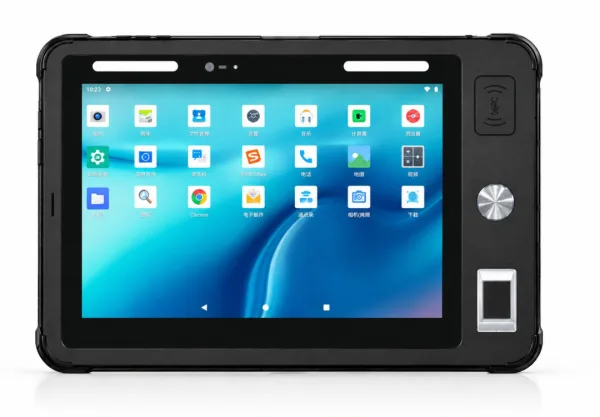
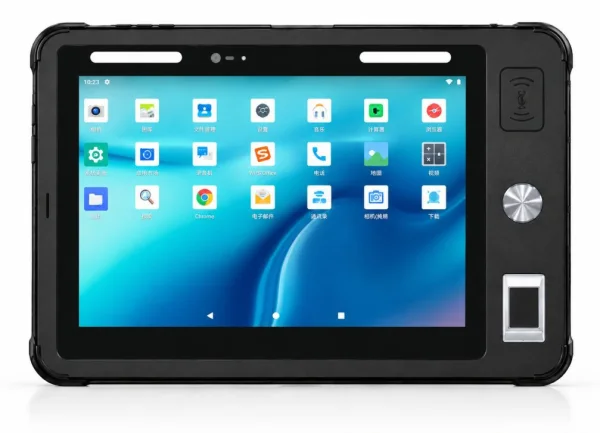
Auto-trim product photos to content bounds (PDA -72% area), raise hero max-height for portrait images

diff --git a/products/8-inch-rugged-tablet/index.html b/products/8-inch-rugged-tablet/index.html
@@ -1,6 +1,6 @@
 <!doctype html>
 <html lang="en"><head><meta charset="utf-8"><meta name="viewport" content="width=device-width, initial-scale=1">
-<link rel="icon" href="/favicon.ico" sizes="32x32"><link rel="icon" href="/favicon.svg" type="image/svg+xml"><link rel="apple-touch-icon" href="/apple-touch-icon.png"><link rel="stylesheet" href="../../assets/style.css?v=20261001-prod">
+<link rel="icon" href="/favicon.ico" sizes="32x32"><link rel="icon" href="/favicon.svg" type="image/svg+xml"><link rel="apple-touch-icon" href="/apple-touch-icon.png"><link rel="stylesheet" href="../../assets/style.css?v=20261001-crop">
 <title>8-Inch Rugged Industrial Tablet | Android 12, 10000mAh | Xinhong Smart</title>
 <meta name="description" content="8-inch Android 12 rugged tablet for warehouse and field work. Octa-core MTK, 10000mAh battery, 1.5m drop rating, optional Zebra/Honeywell 2D scanning, fingerprint and ID card modules. OEM/ODM available.">
 <meta name="robots" content="index, follow, max-snippet:-1, max-image-preview:large">
@@ -25,7 +25,7 @@
 <nav class="desktop-nav" aria-label="Main navigation"><a href="/">Home</a><a href="/products/">Products</a><a href="/custom/">Custom Solutions</a><a href="/insights/">News</a><a href="/about/">About Us</a></nav><a class="header-contact" href="/about/#contact">Contact us <span>↗</span></a>
 <details class="mobile-menu"><summary aria-label="Open menu">☰</summary><nav><a href="/">Home</a><a href="/products/">Products</a><a href="/custom/">Custom Solutions</a><a href="/insights/">News</a><a href="/about/">About Us</a></nav></details></div></header>
 <main><div class="container detail-page">
-<section class="product-hero has-photo"><picture class="product-picture"><source type="image/webp" srcset="../../uploads/8-inch-rugged-tablet-600.webp 600w, ../../uploads/8-inch-rugged-tablet.webp 1080w" sizes="(max-width:900px) 92vw, 470px"><img src="../../uploads/8-inch-rugged-tablet.jpg" alt="8-inch rugged industrial tablet with optional 2D scanner and fingerprint sensor" width="1080" height="750" decoding="async"></picture><div><h1>8-Inch Rugged Industrial Tablet</h1>
+<section class="product-hero has-photo"><picture class="product-picture"><source type="image/webp" srcset="../../uploads/8-inch-rugged-tablet-600.webp 600w, ../../uploads/8-inch-rugged-tablet.webp 1007w" sizes="(max-width:900px) 92vw, 470px"><img src="../../uploads/8-inch-rugged-tablet.jpg" alt="8-inch rugged industrial tablet with optional 2D scanner and fingerprint sensor" width="1007" height="727" decoding="async"></picture><div><h1>8-Inch Rugged Industrial Tablet</h1>
   <p class="lead">A one-handed-balance Android tablet built for warehouses, inspection routes and vehicle mounts — with the scanning, battery and connectivity options that consumer tablets never get right.</p>
   <p><a class="cta-btn" href="/about/#contact">Request a Quote</a> <a class="cta-btn-secondary" href="/products/10-inch-rugged-tablet/">Prefer a 10-inch screen?</a></p></div></section>
 

diff --git a/products/handheld-pda/index.html b/products/handheld-pda/index.html
@@ -1,6 +1,6 @@
 <!doctype html>
 <html lang="en"><head><meta charset="utf-8"><meta name="viewport" content="width=device-width, initial-scale=1">
-<link rel="icon" href="/favicon.ico" sizes="32x32"><link rel="icon" href="/favicon.svg" type="image/svg+xml"><link rel="apple-touch-icon" href="/apple-touch-icon.png"><link rel="stylesheet" href="../../assets/style.css?v=20261001-prod">
+<link rel="icon" href="/favicon.ico" sizes="32x32"><link rel="icon" href="/favicon.svg" type="image/svg+xml"><link rel="apple-touch-icon" href="/apple-touch-icon.png"><link rel="stylesheet" href="../../assets/style.css?v=20261001-crop">
 <title>5-Inch Industrial Handheld PDA | Zebra/Honeywell 2D Scanner Options | Xinhong Smart</title>
 <meta name="description" content="5.72-inch Android 12 handheld terminal for warehouse scanning and field ID work. 242 g, Honeywell/Zebra/Newland imager options, UHF RFID, fingerprint and ID card reading. Factory-direct OEM/ODM.">
 <meta name="robots" content="index, follow, max-snippet:-1, max-image-preview:large">
@@ -25,7 +25,7 @@
 <nav class="desktop-nav" aria-label="Main navigation"><a href="/">Home</a><a href="/products/">Products</a><a href="/custom/">Custom Solutions</a><a href="/insights/">News</a><a href="/about/">About Us</a></nav><a class="header-contact" href="/about/#contact">Contact us <span>↗</span></a>
 <details class="mobile-menu"><summary aria-label="Open menu">☰</summary><nav><a href="/">Home</a><a href="/products/">Products</a><a href="/custom/">Custom Solutions</a><a href="/insights/">News</a><a href="/about/">About Us</a></nav></details></div></header>
 <main><div class="container detail-page">
-<section class="product-hero has-photo"><picture class="product-picture"><source type="image/webp" srcset="../../uploads/handheld-pda-600.webp 600w, ../../uploads/handheld-pda.webp 1080w" sizes="(max-width:900px) 92vw, 470px"><img src="../../uploads/handheld-pda.jpg" alt="5-inch industrial handheld PDA with 2D barcode scanner, NFC and physical function keys" width="1080" height="720" decoding="async"></picture><div><h1>5-Inch Industrial Handheld PDA</h1>
+<section class="product-hero has-photo"><picture class="product-picture"><source type="image/webp" srcset="../../uploads/handheld-pda.webp 337w"><img src="../../uploads/handheld-pda.jpg" alt="5-inch industrial handheld PDA with 2D barcode scanner, NFC and physical function keys" width="337" height="657" decoding="async"></picture><div><h1>5-Inch Industrial Handheld PDA</h1>
   <p class="lead">A 242-gram Android mobile computer built around scanning — choose Honeywell, Zebra or Newland imagers, add UHF RFID or biometric modules, and deploy a fleet that survives the shift.</p>
   <p><a class="cta-btn" href="/about/#contact">Request a Quote</a> <a class="cta-btn-secondary" href="/products/8-inch-rugged-tablet/">Need a bigger screen? See our 8-inch tablet</a></p></div></section>
 

diff --git a/products/10-inch-rugged-tablet/index.html b/products/10-inch-rugged-tablet/index.html
@@ -1,6 +1,6 @@
 <!doctype html>
 <html lang="en"><head><meta charset="utf-8"><meta name="viewport" content="width=device-width, initial-scale=1">
-<link rel="icon" href="/favicon.ico" sizes="32x32"><link rel="icon" href="/favicon.svg" type="image/svg+xml"><link rel="apple-touch-icon" href="/apple-touch-icon.png"><link rel="stylesheet" href="../../assets/style.css?v=20261001-prod">
+<link rel="icon" href="/favicon.ico" sizes="32x32"><link rel="icon" href="/favicon.svg" type="image/svg+xml"><link rel="apple-touch-icon" href="/apple-touch-icon.png"><link rel="stylesheet" href="../../assets/style.css?v=20261001-crop">
 <title>10-Inch Rugged Tablet with IP67 | Android 12 / Windows 11 | Xinhong Smart</title>
 <meta name="description" content="10.1-inch IP67 rugged tablet, 1920x1200 sunlight-readable IPS, octa-core, Android 12 or Windows 11, 4G LTE, NFC and optional 2D scanning. Built for logistics, manufacturing and inspection. OEM/ODM direct from the factory.">
 <meta name="robots" content="index, follow, max-snippet:-1, max-image-preview:large">

diff --git a/assets/style.css b/assets/style.css
@@ -96,7 +96,7 @@
 .product-hero{padding:44px 0 50px}
 .product-hero.has-photo{display:grid;grid-template-columns:1.02fr 1fr;gap:52px;align-items:center}
 .product-hero picture{display:block}
-.product-hero img{width:100%;height:auto;max-height:400px;object-fit:contain;background:var(--wash);padding:24px;box-sizing:border-box}
+.product-hero img{width:100%;height:auto;max-height:460px;object-fit:contain;background:var(--wash);padding:24px;box-sizing:border-box}
 .product-hero h1{font-size:clamp(31px,3.5vw,50px);line-height:1.08;letter-spacing:-.035em;margin:0 0 20px}
 .product-hero .lead{font-size:17px;line-height:1.72;color:var(--muted);max-width:660px;margin:0 0 28px}
 .cta-btn{display:inline-flex;align-items:center;justify-content:center;min-height:48px;padding:12px 24px;background:var(--blue);color:#fff;font-size:14px;font-weight:700}
